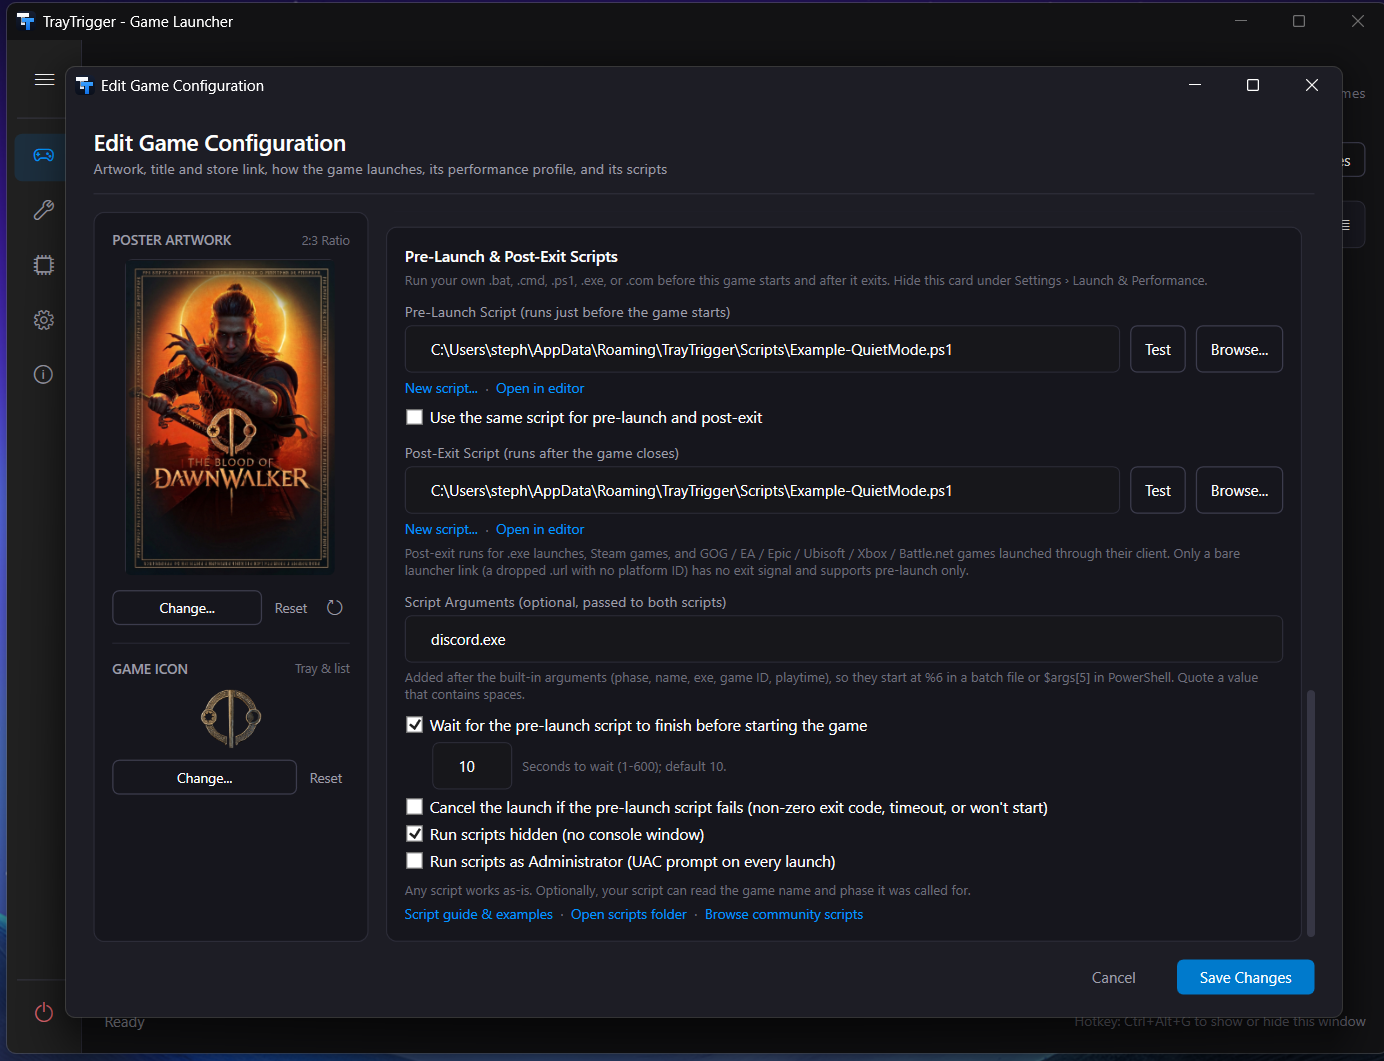
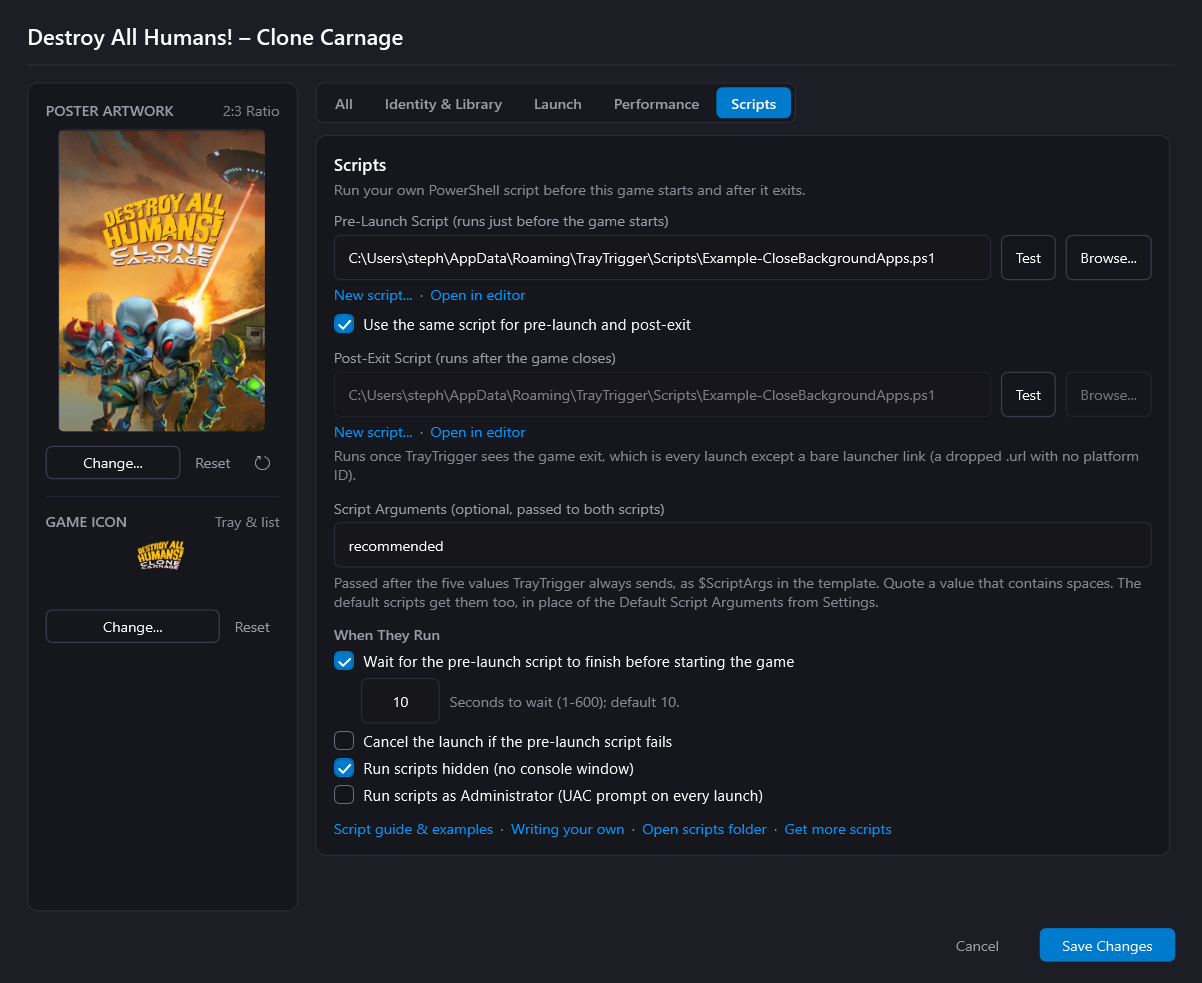
Site: the 1.6.1 Scripts tab, and link previews that say what TrayTrigger does
The scripts screenshot was from 1.4 (.bat and %6 on screen, an old script name);
it now shows the 1.6.1 Scripts tab with Close Background Apps set for both
phases. The section says "New in 1.6.1" and links the step-by-step guide beside
the reference; the 1.6.0 "new" labels are gone. og:title and og:description
match the page's own title and line, so a shared link previews the same pitch.

The Debug capture mode --screenshot-edit-tab takes "script" to set that up.

diff --git a/site/index.html b/site/index.html
@@ -8,8 +8,8 @@
 <link rel="icon" href="assets/app_icon.png">
 <link rel="canonical" href="https://stephenh678.github.io/TrayTrigger/">
 <meta property="og:type" content="website">
-<meta property="og:title" content="TrayTrigger: Launch. Automate. Play.">
-<meta property="og:description" content="Your games. Your settings. One tray menu. Launch PC games, automate your routine, and restore per-game profile settings on exit. Free for Windows.">
+<meta property="og:title" content="TrayTrigger: per-game Windows settings that put themselves back">
+<meta property="og:description" content="Sets Windows up for the game you're about to play (HDR, power plan, CPU cores, DLSS Override, your own scripts, tools) and puts everything back when you quit. Free, open source, lives in your tray.">
 <meta property="og:image" content="https://stephenh678.github.io/TrayTrigger/assets/social-preview.png">
 <meta property="og:image:width" content="1536">
 <meta property="og:image:height" content="1024">
@@ -191,7 +191,7 @@
   /* The Edit Game captures are cropped to the app window in the files themselves; the frame shows the whole image. */
   .capture { position: relative; width: 100%; overflow: hidden; background: #1d1d26; }
   .crop-profile { aspect-ratio: 1389 / 1059; }
-  .crop-scripts { aspect-ratio: 1384 / 1061; }
+  .crop-scripts { aspect-ratio: 1202 / 983; }
   .capture img { position: absolute; max-width: none; height: auto; border: 0; border-radius: 0; }
   .crop-profile img { width: 100%; left: 0; top: 0; }
   .crop-scripts img { width: 100%; left: 0; top: 0; }
@@ -200,7 +200,7 @@
   .lightbox-content { width: min(1100px, 92vw); }
   .lightbox-content .capture { margin: auto; border-radius: 10px; }
   .lightbox-content .crop-profile { max-width: calc((100dvh - 110px) * 1389 / 1059); }
-  .lightbox-content .crop-scripts { max-width: calc((100dvh - 110px) * 1384 / 1061); }
+  .lightbox-content .crop-scripts { max-width: calc((100dvh - 110px) * 1202 / 983); }
   .lightbox-content .capture img { max-height: none; }
   .lightbox-content > img { margin: auto; }
   @media (max-width: 760px) { .hero-showcase { grid-template-columns: 1fr; gap: 20px; } .hero-showcase .tray-card { max-width: 420px; justify-self: center; } }
@@ -362,7 +362,7 @@
 
     <div class="pillar" id="scripts">
       <div>
-        <div class="kicker">Make it yours<span class="badge">nothing runs until you pick one</span></div>
+        <div class="kicker">Make it yours · New in 1.6.1<span class="badge">nothing runs until you pick one</span></div>
         <h2>If TrayTrigger doesn't do it, your script can</h2>
         <p class="muted">A PowerShell script runs just before any game and again after it, with the game's name, path and minutes played handed to it. Whatever you'd want done around a session, before and after, is a few lines away.</p>
         <ul>
@@ -371,10 +371,10 @@
           <li><strong>On the record.</strong> A script says what it did in its own words, and TrayTrigger puts that on the game's Played row in Activity &amp; History and in the launch popup: "closed OneDrive and Discord".</li>
           <li><strong>As you, by default.</strong> Scripts run as you, or as Administrator through Windows' own prompt when you choose it. Read a script before you attach it; it does what it says, nothing more.</li>
         </ul>
-        <p class="note"><a href="https://github.com/stephenh678/TrayTrigger/wiki/Writing-your-own-script">Writing your own script →</a></p>
+        <p class="note"><a href="https://github.com/stephenh678/TrayTrigger-Scripts/blob/main/HOW-TO-WRITE-A-SCRIPT.md">How to write a TrayTrigger script, step by step →</a> &nbsp;·&nbsp; <a href="https://github.com/stephenh678/TrayTrigger/wiki/Writing-your-own-script">The full reference →</a></p>
 
       </div>
-      <figure class="shot"><div class="capture crop-scripts"><img loading="lazy" src="assets/scripts-current.png" alt="Close Background Apps script configured for pre-launch and post-exit with discord.exe as its argument"></div><figcaption><strong>A routine you can make your own.</strong> Configure the before-and-after actions, test them, and choose whether launch waits for the script.</figcaption></figure>
+      <figure class="shot"><div class="capture crop-scripts"><img loading="lazy" src="assets/scripts-current.png" alt="Edit Game's Scripts tab: Close Background Apps set for before and after the game, with recommended as its Script Arguments"></div><figcaption><strong>Your routine, per game.</strong> Pick a ready-made script or start your own with New script..., test it, and choose whether the game waits for it.</figcaption></figure>
     </div>
   </div>
 </section>
@@ -384,7 +384,7 @@
     <div class="theme-band" aria-hidden="true"><span>Launch.</span><span>Automate.</span><span class="on">Play.</span></div>
     <div class="pillar" id="tweaks">
       <div>
-        <div class="kicker">Performance Tweaks · Stutter Check new in 1.6.0</div>
+        <div class="kicker">Performance Tweaks · Stutter Check</div>
         <h2>Windows, ready for play</h2>
         <p class="muted">Optional Windows settings for display, input, scheduling, and background activity. These are separate from per-game profiles: they stay applied until you revert them.</p>
         <ul>
@@ -399,7 +399,7 @@
     </div>
     <div class="pillar" id="activity">
       <div>
-        <div class="kicker">Activity &amp; History · Every launch on the record, new in 1.6.0</div>
+        <div class="kicker">Activity &amp; History · Every launch on the record</div>
         <h2>Know what changed, and what didn't go to plan</h2>
         <p class="muted">A bell at the bottom of the sidebar opens a plain-language record of your sessions, by day, kept for 30 days, 90 or a year, and cleared when you say. Nothing interrupts a game: one notification after your last game sums up anything that went wrong.</p>
         <ul>

diff --git a/App.DevDiagnostics.cs b/App.DevDiagnostics.cs
@@ -1490,6 +1490,8 @@ public partial class App
                 bool noDlss = i + 3 < e.Args.Length && e.Args[i + 3].Equals("nodlss", StringComparison.OrdinalIgnoreCase);
                 // "autocores": CPU Cores on Auto, so the wait-before-applying box is in the capture.
                 bool autoCores = i + 3 < e.Args.Length && e.Args[i + 3].Equals("autocores", StringComparison.OrdinalIgnoreCase);
+                // "script": Close Background Apps set for both phases with "recommended", as the site shows it.
+                bool withScript = i + 3 < e.Args.Length && e.Args[i + 3].Equals("script", StringComparison.OrdinalIgnoreCase);
                 _skipSettingsSaveOnExit = true;
                 // A copy, so pressing Save for the "invalid" capture can never touch the library.
                 // Prefer a game that actually ships DLSS, so the Performance tab's DLSS card is in
@@ -1512,6 +1514,12 @@ public partial class App
                 // The Performance tab shows the tier summary; Aggressive lists the most.
                 if (section == GameEditSection.Performance) editVm.PerformanceProfile = PerformanceProfileMode.Aggressive;
                 if (autoCores) editVm.CpuAffinity = CpuAffinityMode.Auto;
+                if (withScript)
+                {
+                    editVm.PreLaunchScriptPath = Path.Combine(new ScriptLibraryService(_storageService.BaseDirectory).ScriptsDirectory, "Example-CloseBackgroundApps.ps1");
+                    editVm.UseSameScriptForBoth = true;
+                    editVm.ScriptArguments = "recommended";
+                }
                 editVm.SelectedSection = section;
                 dlg.Show();
                 // The DLSS card loads asynchronously, so a capture taken straight after Show()
